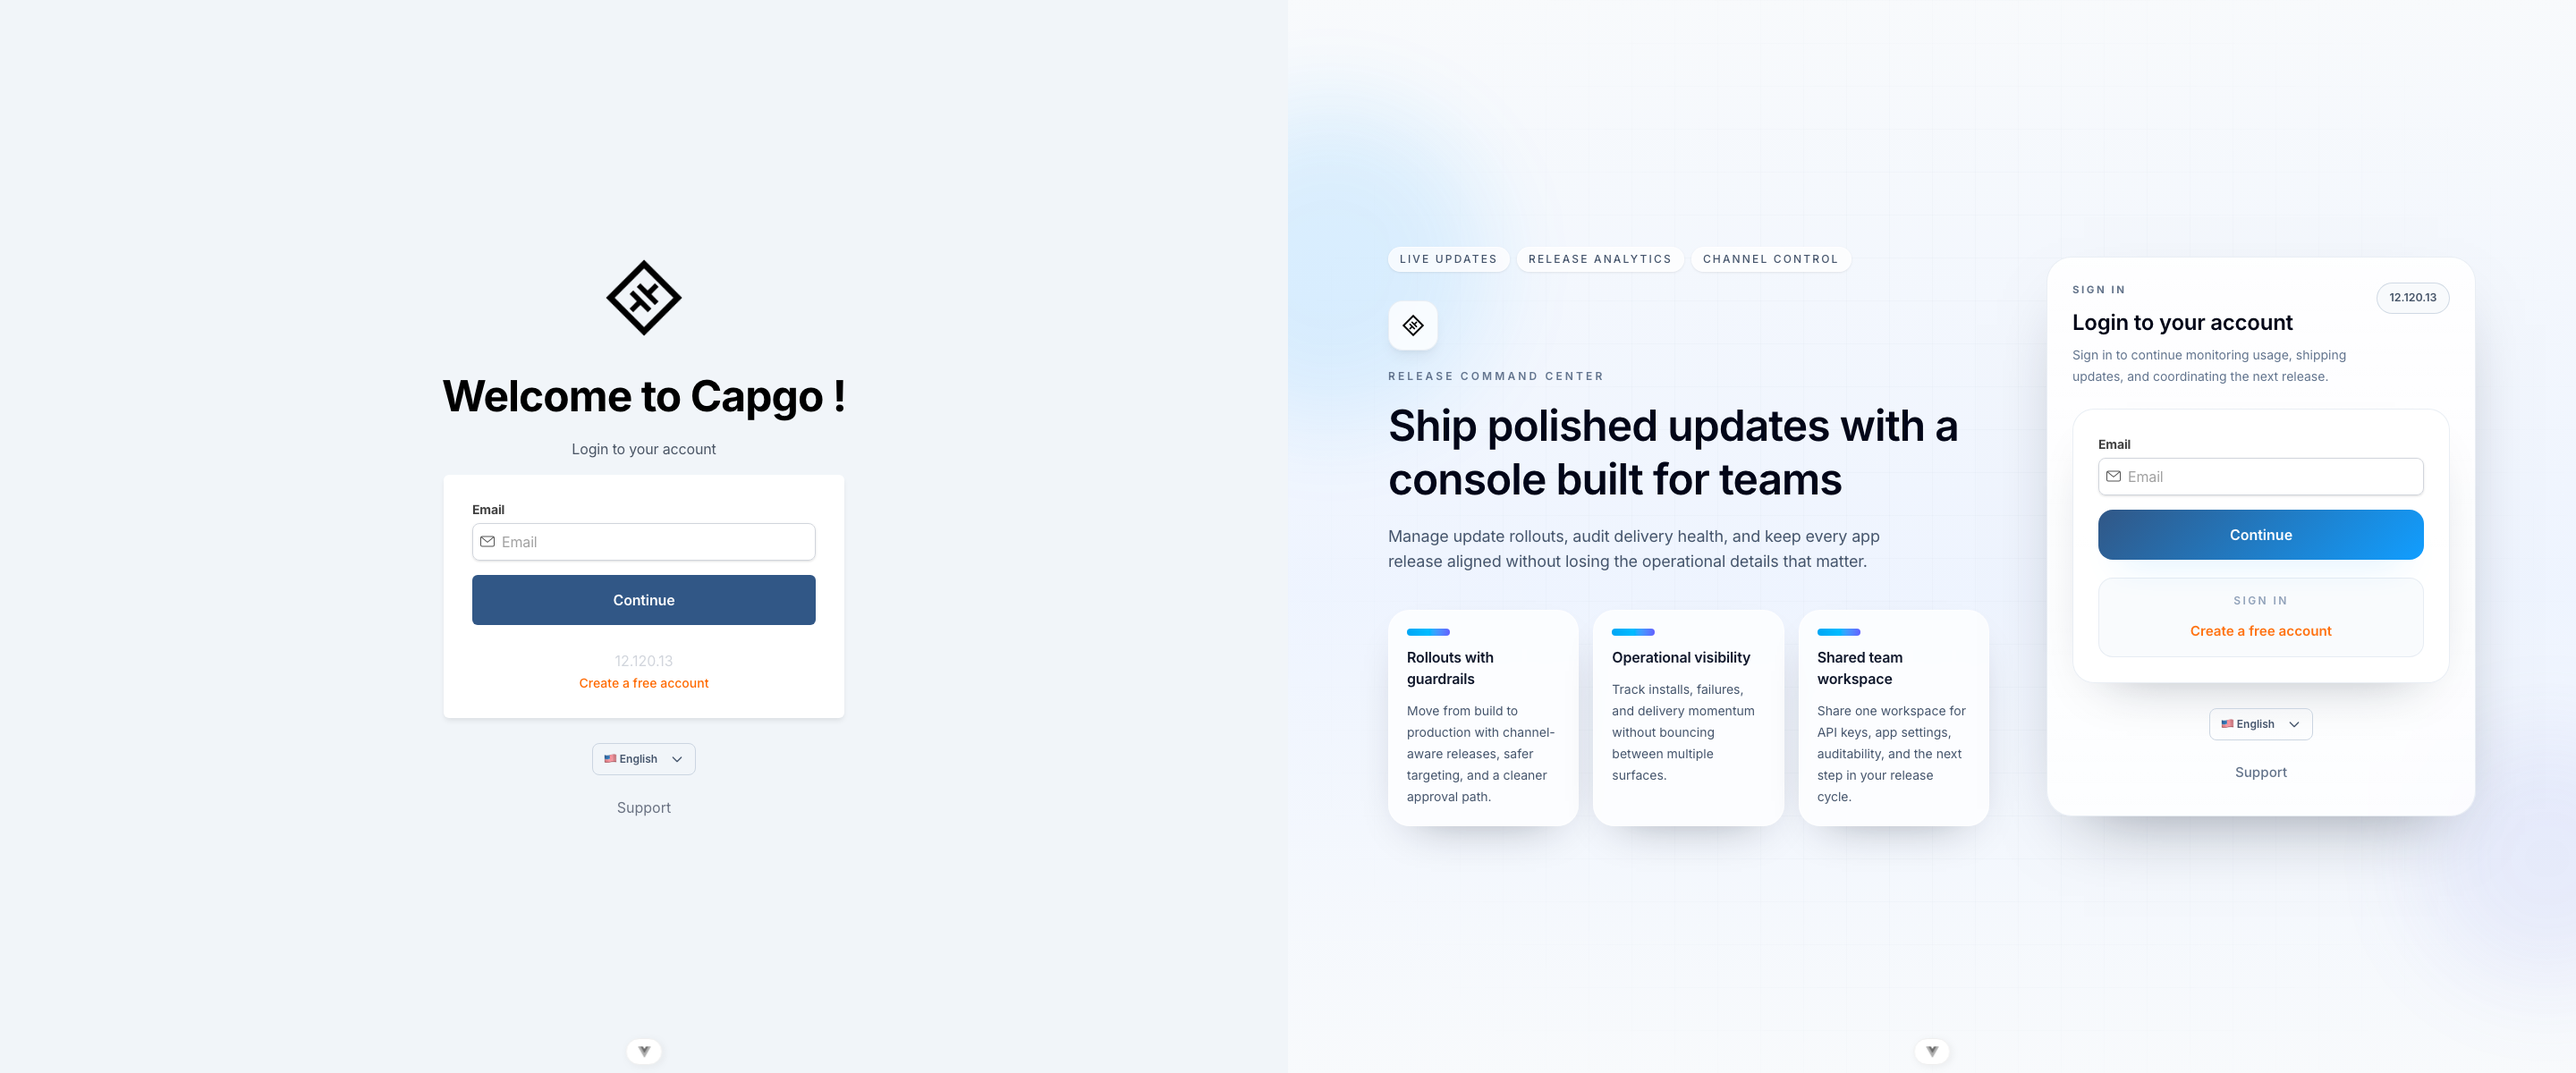
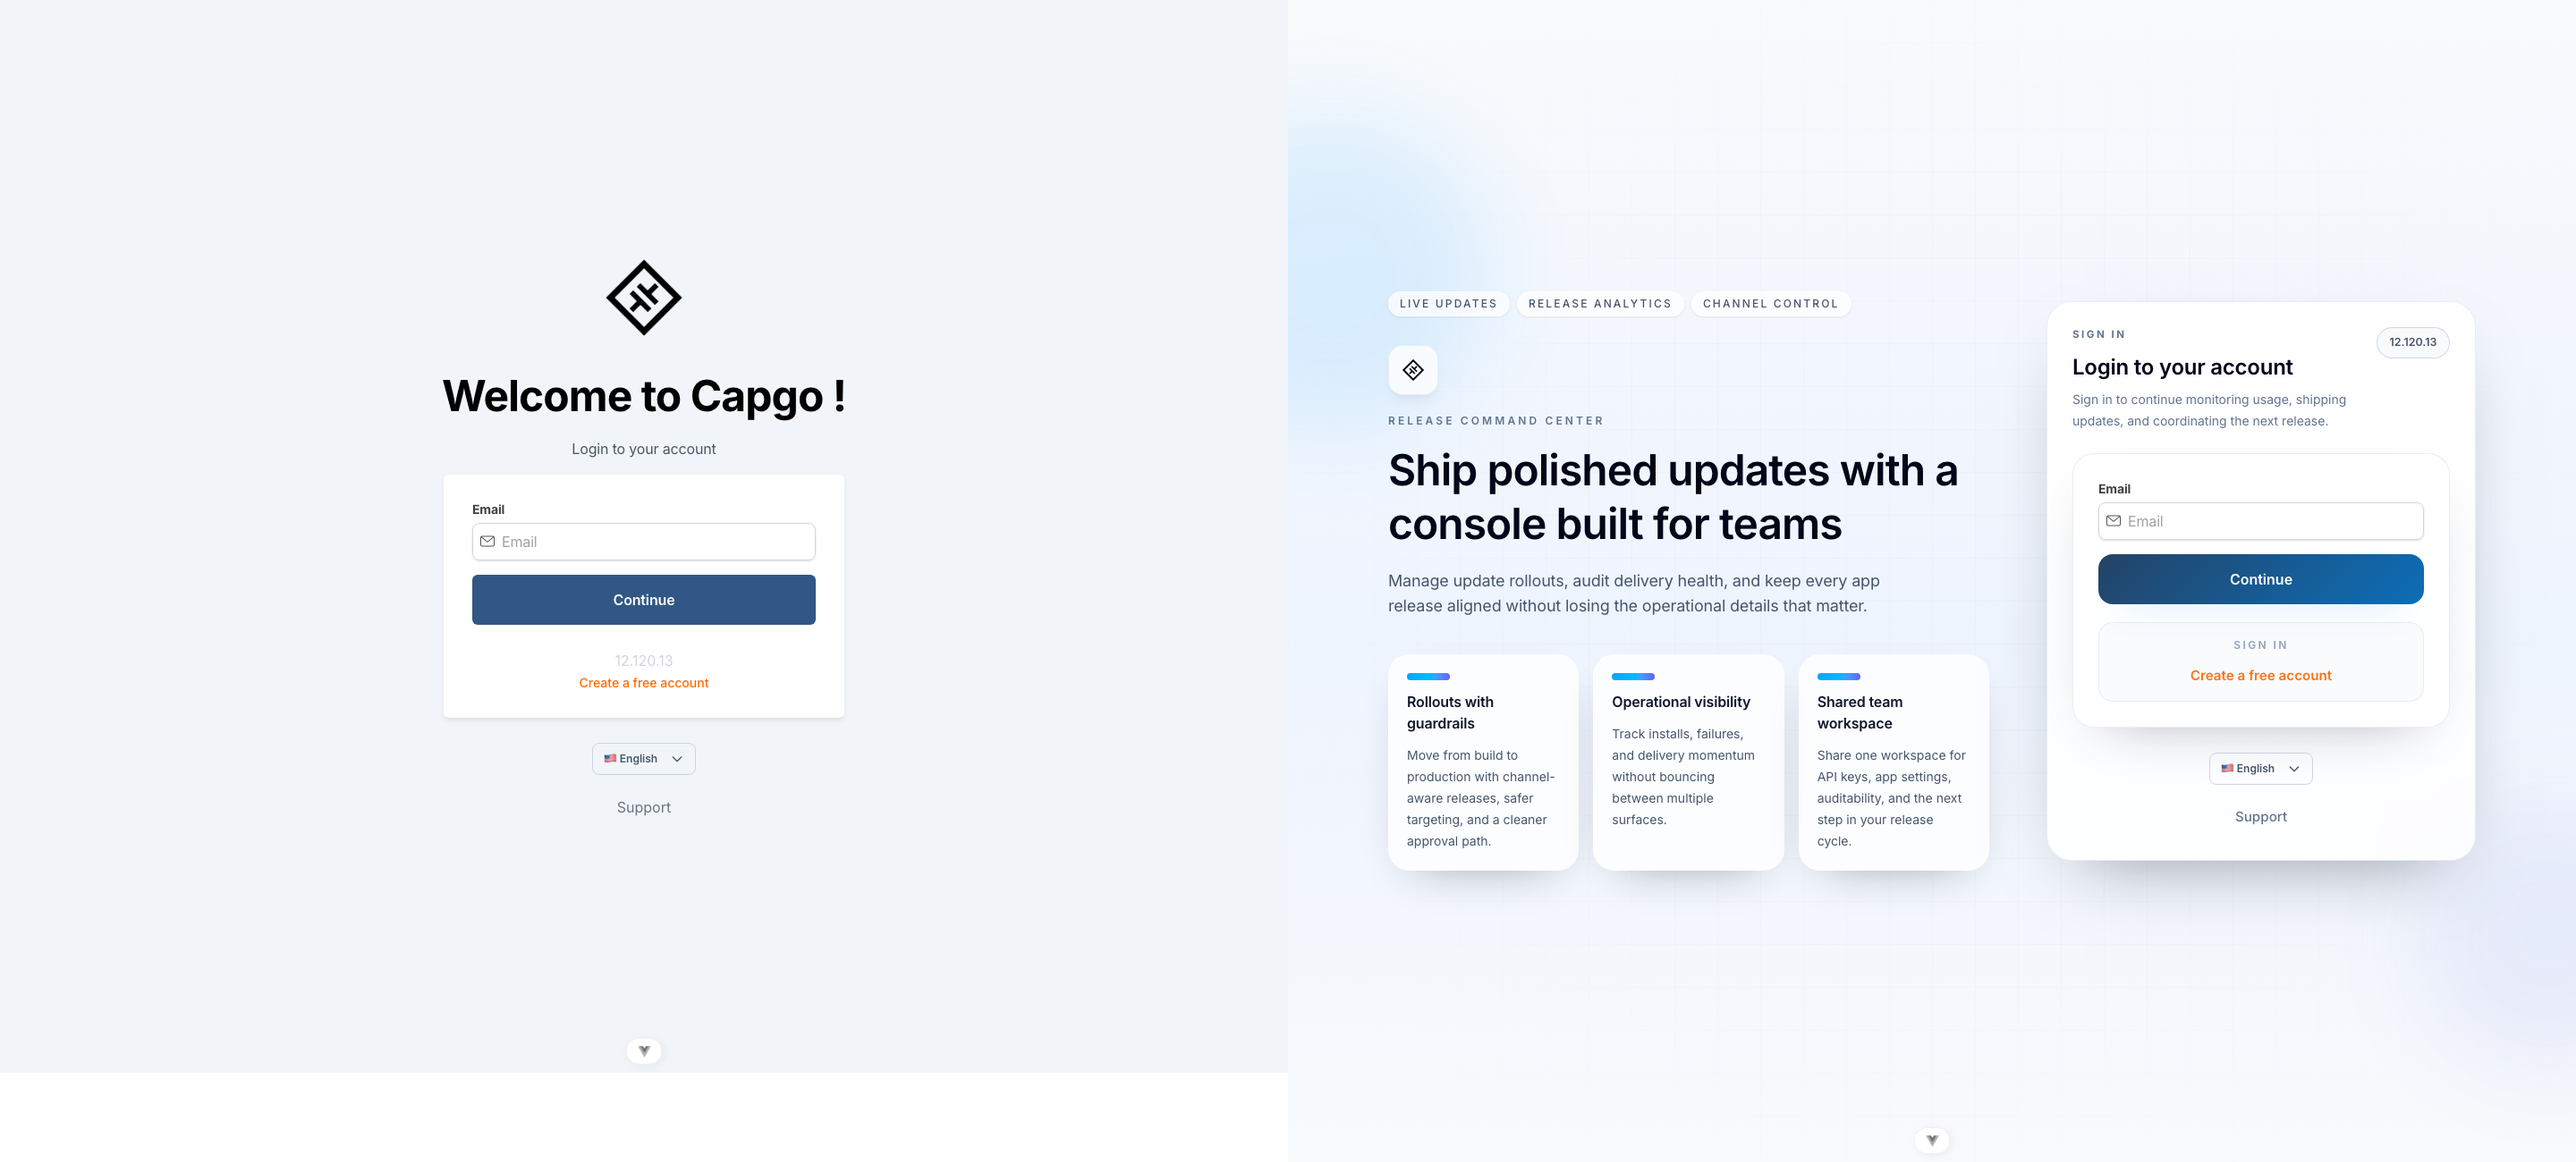
fix(frontend): improve login button contrast

diff --git a/src/pages/login.vue b/src/pages/login.vue
@@ -1108,7 +1108,7 @@ onMounted(checkLogin)
   justify-content: center;
   gap: 0.5rem;
   border-radius: 1rem;
-  background: linear-gradient(135deg, rgb(49 87 134) 0%, rgb(17 158 255) 100%);
+  background: linear-gradient(135deg, rgb(36 67 102) 0%, rgb(12 110 184) 100%);
   padding: 1rem;
   font-size: 1rem;
   font-weight: 600;
